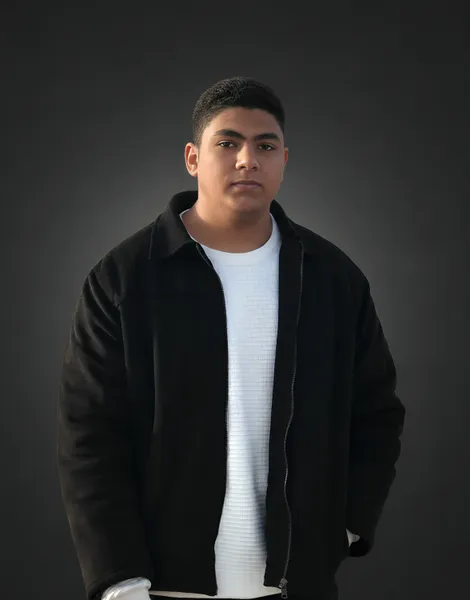
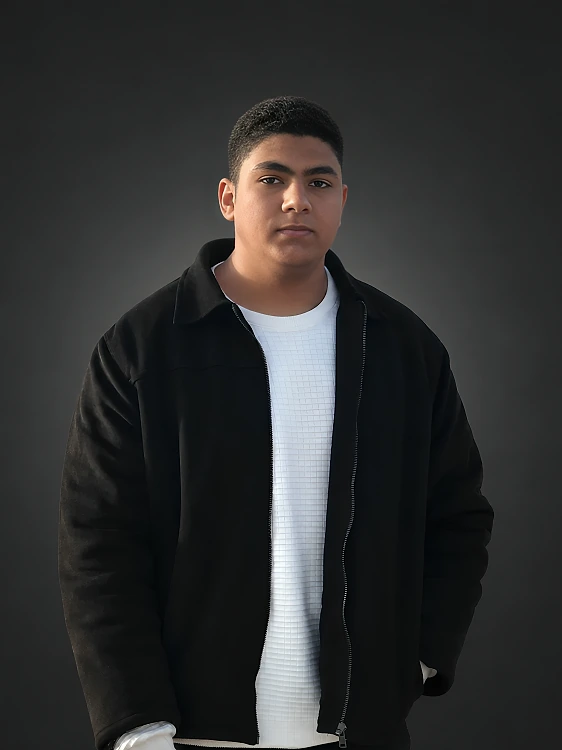
Sharper portrait: native-resolution exports, high-quality serving, straight arch
The 750px edited photo was being exported at 8 KB and re-compressed, then
upscaled on the About page. Export at native size (562x750 arch crop,
750x750 square) at q92, serve through next/image at quality 92, size the
About figure at 375 CSS px so 2x screens get 1:1 pixels, and drop the
-2deg tilt on the hero arch.

diff --git a/app/(site)/page.tsx b/app/(site)/page.tsx
@@ -147,16 +147,19 @@ export default function Home() {
             {/* Arch portrait — overlaps the name on lg+, behind the text */}
             <div
               aria-hidden="true"
-              className="pointer-events-none absolute top-1/2 right-10 z-0 hidden -translate-y-[52%] rotate-[-2deg] lg:block xl:right-24"
+              className="pointer-events-none absolute top-1/2 right-10 z-0 hidden -translate-y-[52%] lg:block xl:right-24"
             >
+              {/* Source is a 750px edit, so the arch is kept at ≤ half the
+                  native width and served at high quality: crisp on 2x screens. */}
               <Image
                 src="/seif-portrait.webp"
                 alt=""
-                width={470}
-                height={600}
+                width={562}
+                height={750}
                 priority
-                sizes="(min-width:1024px) 235px, 0px"
-                className="h-[300px] w-[235px] rounded-t-full object-cover object-top ring-1 ring-accent-400/70 ring-offset-4 ring-offset-ground-950"
+                quality={92}
+                sizes="(min-width:1024px) 250px, 0px"
+                className="h-[334px] w-[250px] rounded-t-full object-cover object-top ring-1 ring-accent-400/70 ring-offset-4 ring-offset-ground-950"
               />
             </div>
             <RevealText
@@ -173,8 +176,9 @@ export default function Home() {
                 <Image
                   src="/seif-avatar.webp"
                   alt="Seif Ashraf"
-                  width={96}
-                  height={96}
+                  width={128}
+                  height={128}
+                  quality={90}
                   sizes="36px"
                   className="h-9 w-9 rounded-full object-cover object-top"
                 />

diff --git a/app/(site)/about/page.tsx b/app/(site)/about/page.tsx
@@ -99,15 +99,18 @@ export default function About() {
             </div>
             <figure
               data-reveal
-              className="relative overflow-hidden rounded-3xl border border-ground-800"
+              className="relative w-full max-w-[375px] overflow-hidden rounded-3xl border border-ground-800 lg:ml-auto"
             >
+              {/* 750px source shown at ≤375 CSS px so it stays sharp on 2x
+                  screens instead of being upscaled. */}
               <Image
-                src="/seif-portrait.webp"
+                src="/seif-square.webp"
                 alt="Portrait of Seif Ashraf"
-                width={470}
-                height={600}
-                sizes="(min-width:1024px) 520px, 100vw"
-                className="w-full object-cover saturate-[0.85]"
+                width={750}
+                height={750}
+                quality={92}
+                sizes="(min-width:1024px) 375px, (min-width:640px) 375px, 100vw"
+                className="w-full object-cover"
               />
               <div
                 className="absolute inset-0 bg-gradient-to-t from-ground-950/70 via-transparent to-transparent"
